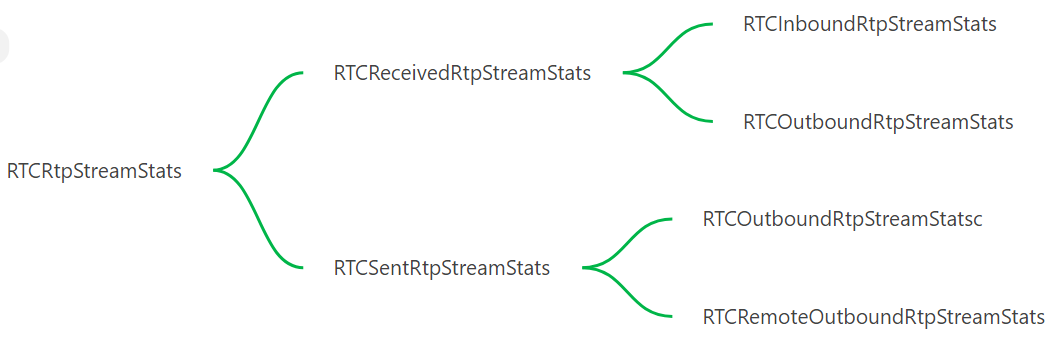
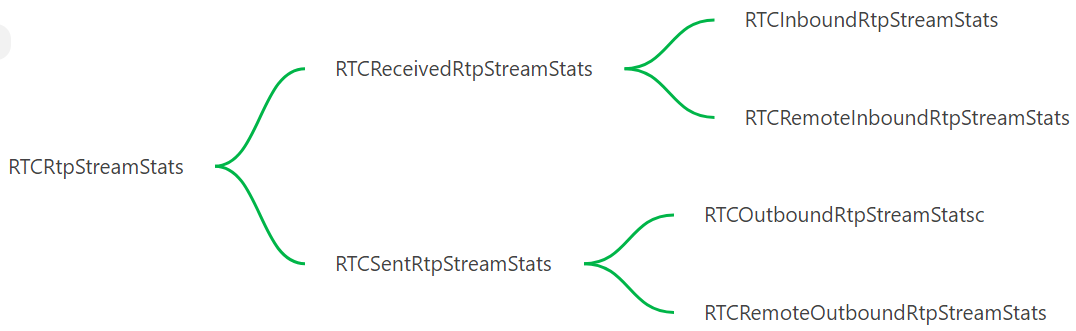
update doc

diff --git a/doc/05-statistic.md b/doc/05-statistic.md
@@ -27,14 +27,12 @@
 
 ##  RTP statistics hierarchy
 * RTCRtpStreamStats
-
   * RTCReceivedRtpStreamStats
-
-    * RTCInboundRtpStreamStats
-    * RTCOutboundRtpStreamStats
+    - RTCInboundRtpStreamStats
+    - RTCRemoteInboundRtpStreamStats
 
   * RTCSentRtpStreamStats
+    - RTCOutboundRtpStreamStatsc
+    - RTCRemoteOutboundRtpStreamStats
 
-    * RTCOutboundRtpStreamStatsc
-    * RTCRemoteOutboundRtpStreamStats
-
+![](webrtc_statistic_hierarchy.png)
